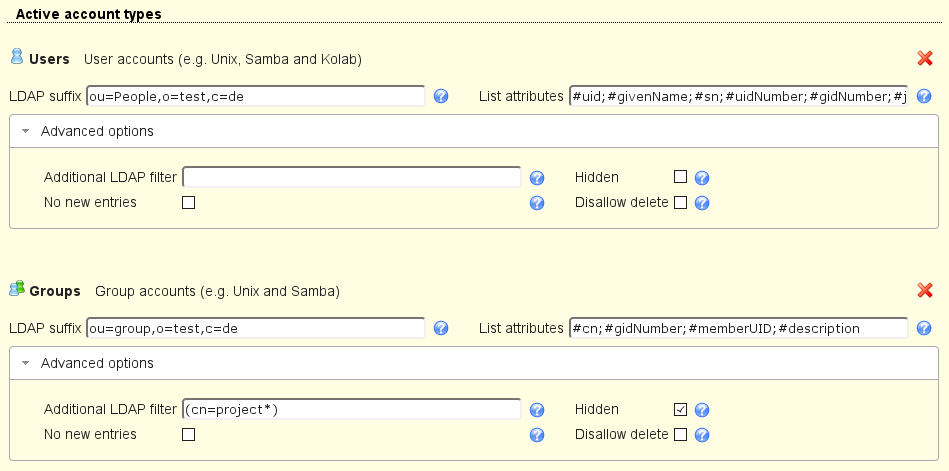
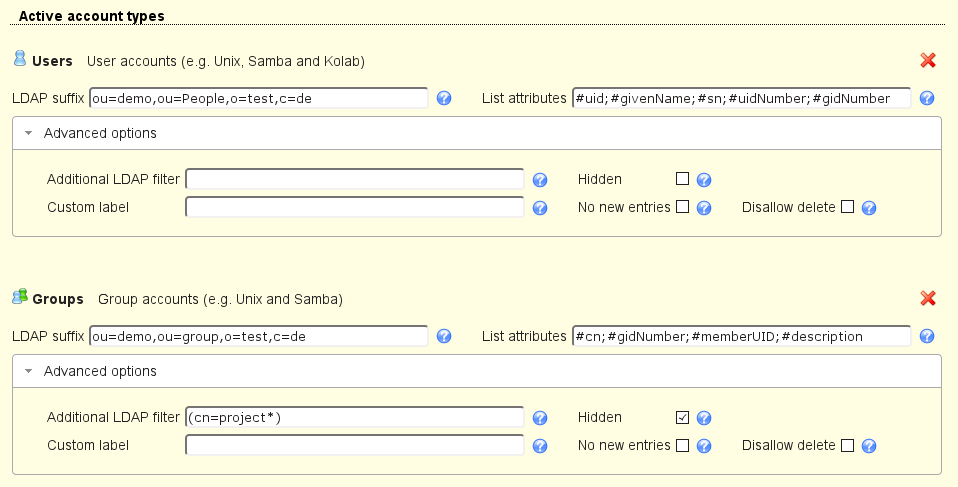
custom labels for account types

diff --git a/lam/templates/config/conftypes.php b/lam/templates/config/conftypes.php
@@ -281,6 +281,15 @@ if (sizeof($activeTypes) > 0) {
 			$hidden = $typeSettings['hidden_' . $activeTypes[$i]];
 		}
 		$advancedOptionsContent->addElement(new htmlTableExtendedInputCheckbox('hidden_' . $activeTypes[$i], $hidden, _('Hidden'), '261'), true);
+		// custom label
+		$customLabel = '';
+		if (isset($typeSettings['customLabel_' . $activeTypes[$i]])) {
+			$customLabel = $typeSettings['customLabel_' . $activeTypes[$i]];
+		}
+		$customLabelInput = new htmlTableExtendedInputField(_('Custom label'), 'customLabel_' . $activeTypes[$i], $customLabel, '264');
+		$customLabelInput->setFieldSize(40);
+		$advancedOptionsContent->addElement($customLabelInput);
+		$advancedOptionsContent->addElement(new htmlSpacer('20px', null));
 		if (isLAMProVersion() && ($conf->getAccessLevel() == LAMConfig::ACCESS_ALL)) {
 			// hide button to create new accounts
 			$hideNewButton = false;
@@ -375,7 +384,11 @@ function checkInput() {
 			}
 		}
 		// set filter
-		elseif (substr($key, 0, 7) == "filter_") {
+		elseif (substr($key, 0, strlen('filter_')) == "filter_") {
+			$typeSettings[$key] = $_POST[$key];
+		}
+		// set custom label
+		elseif (strpos($key, 'customLabel_') === 0) {
 			$typeSettings[$key] = $_POST[$key];
 		}
 	}
